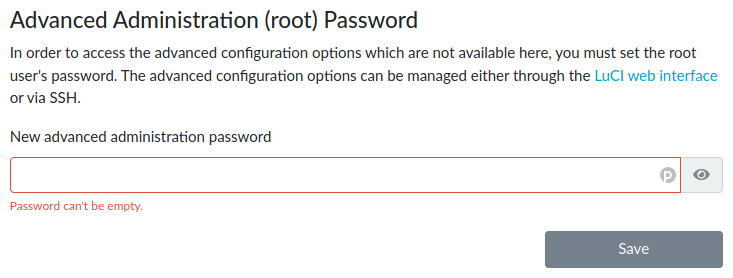
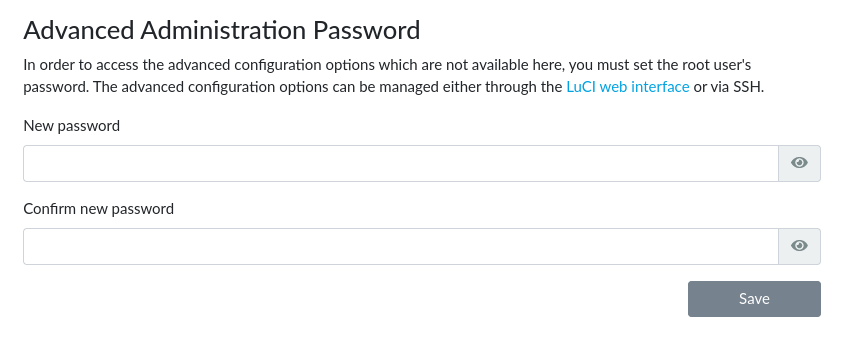
security/passwords: Fix and update password forms screenshots

diff --git a/docs/security/passwords.md b/docs/security/passwords.md
@@ -57,13 +57,13 @@ password and the new password. The new password should be
 ### System passwords
 
 You can use the same password as for Foris/reForis. See the dialog above; check
-_Use same password..._ to ensure this. If you want to set a different password
-you can fill the second dialog at the same page.
+_Use the same password..._ to ensure this. If you want to set a different
+password you can fill the second dialog at the same page.
 
 ![Advanced Administration Password](root-password.png)
 
 !!! notice
-    Fill _Current Foris password_ in the previous dialog too. Without this
+    Fill _Current password_ in the previous dialog too. Without this
     password, your request to change the system password will be denied.
 
 It can be also set via LuCI or via `passwd` in the command line. It is also
